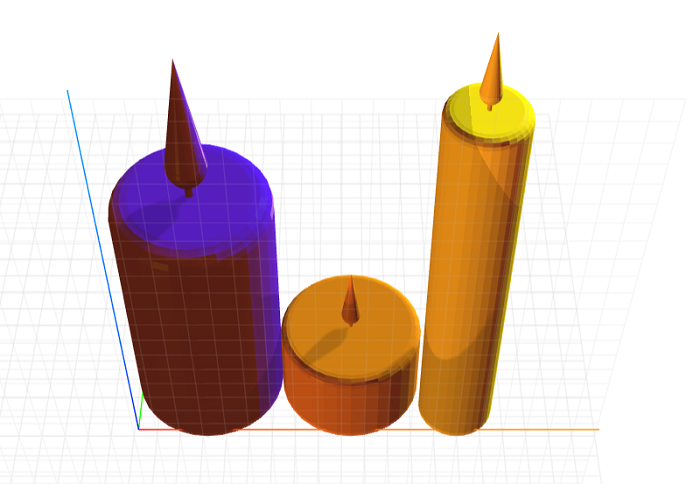
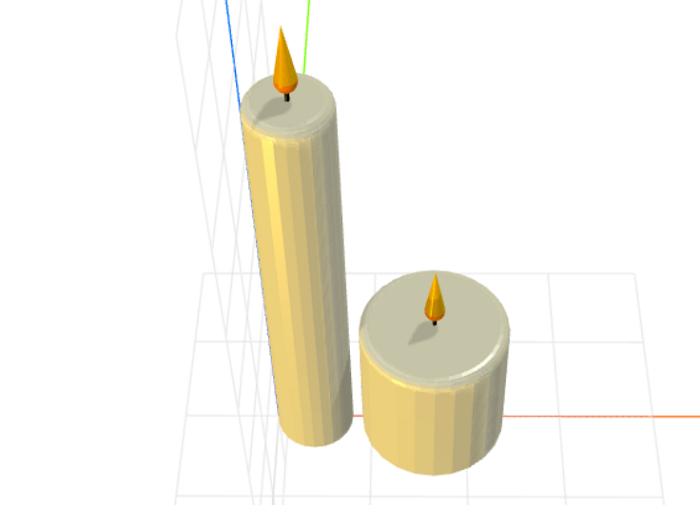
Package update

diff --git a/README.md b/README.md
@@ -13,13 +13,10 @@ Parameterized candle model.
 ```html
 <craft>
 	<craft name="candle" module="calebhsu/craft-candle"/>
-	<lineup spacing="2">
-		<scale factor="2">
-			<candle height="15"></candle>
-		</scale>
-		<candle width="15" height="10"></candle>
-		<candle></candle>
-	</lineup>
+	   <row spacing="1" align="y50">
+        <candle></candle>
+        <candle width="15" height="15"></candle>
+    </row>
 </craft>
 ```
 
